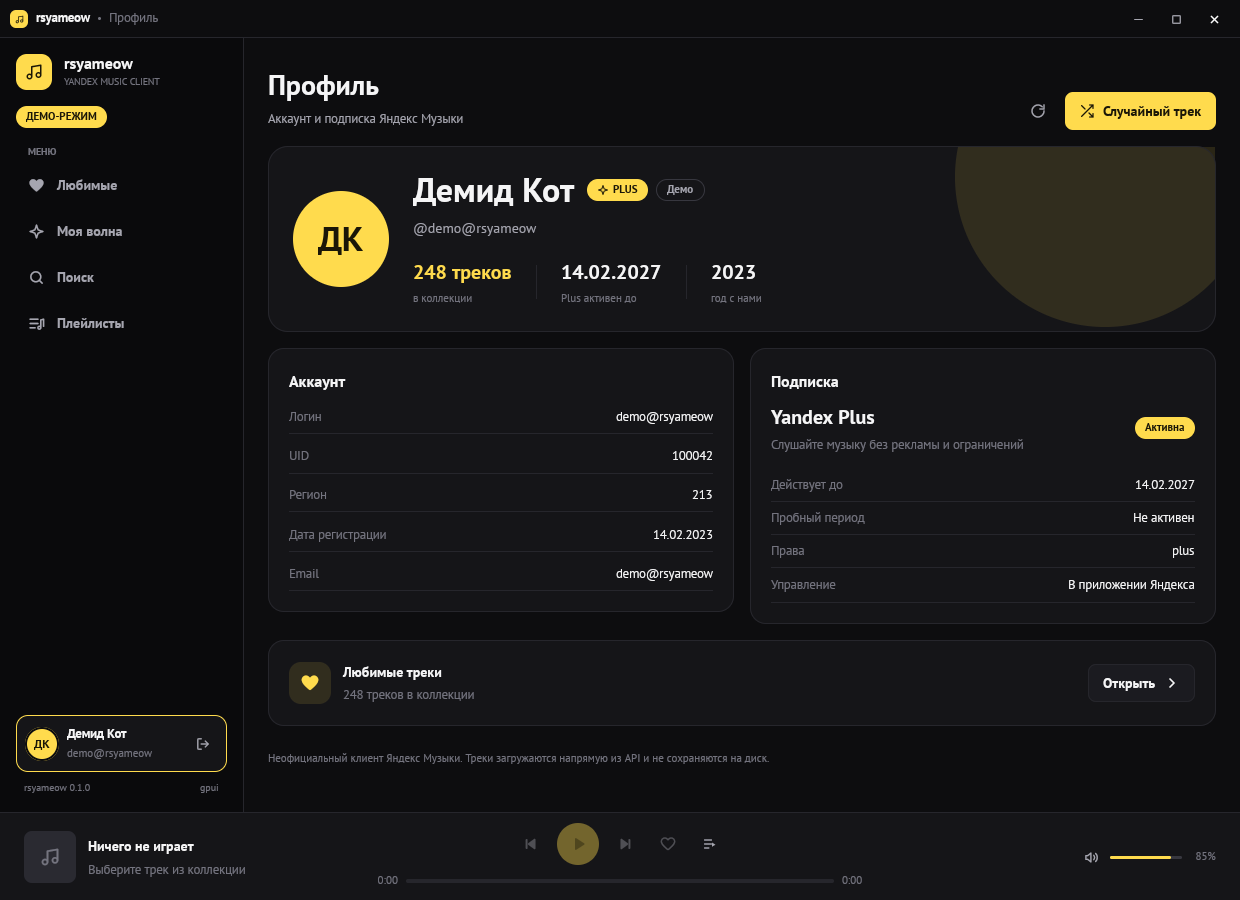
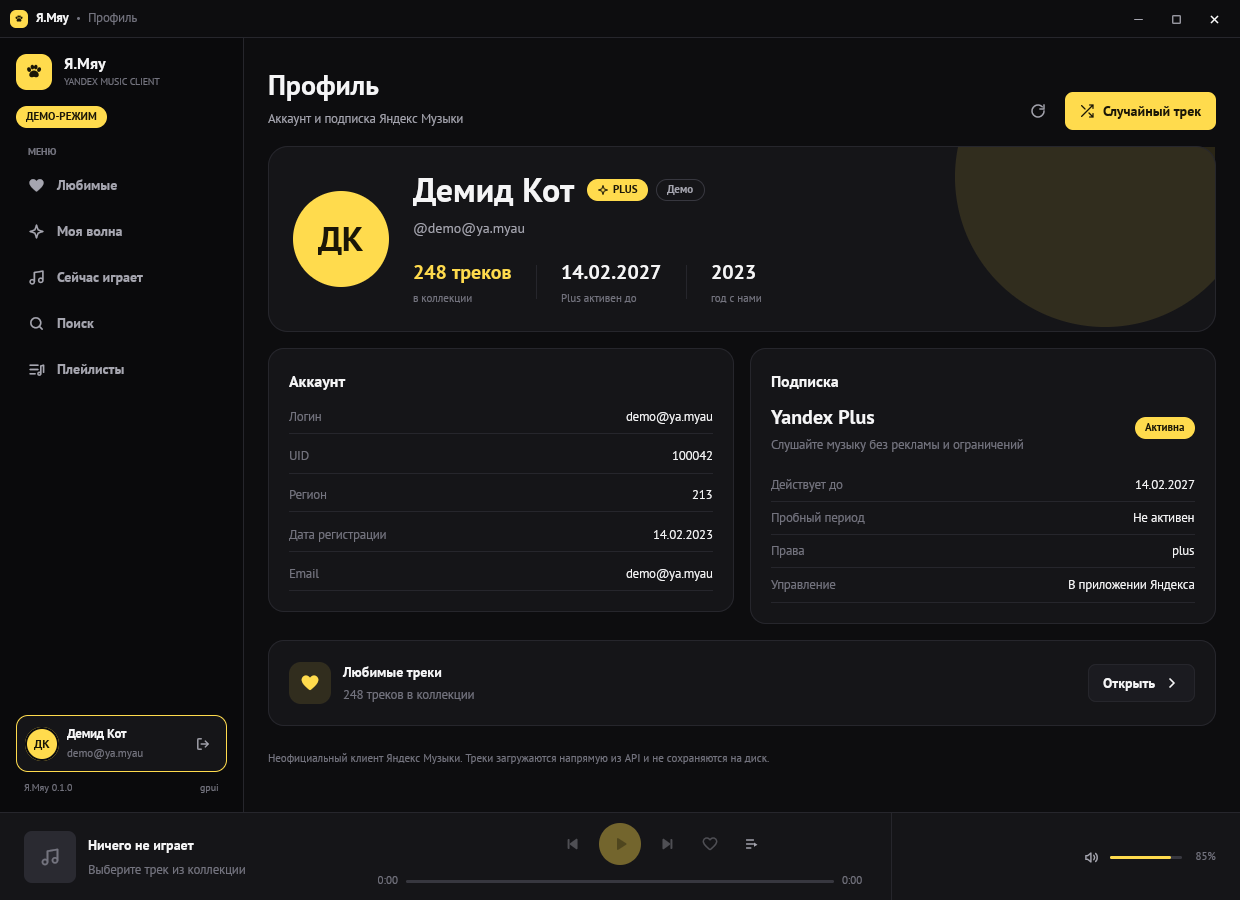
Rebrand the app as Я.Мяу with a cat paw

diff --git a/crates/app/src/demo.rs b/crates/app/src/demo.rs
@@ -15,7 +15,7 @@ pub fn status() -> Status {
         account: Some(Account {
             now: Some("2026-11-20T00:00:00".into()),
             uid: Some(100042),
-            login: Some("demo@rsyameow".into()),
+            login: Some("demo@ya.myau".into()),
             full_name: Some("Демид Кот".into()),
             first_name: Some("Демид".into()),
             display_name: Some("Демид Кот".into()),
@@ -40,7 +40,7 @@ pub fn status() -> Status {
             can_start_trial: Some(false),
             ..Default::default()
         }),
-        default_email: Some("demo@rsyameow".into()),
+        default_email: Some("demo@ya.myau".into()),
         station_exists: Some(true),
         pretrial_active: Some(false),
         ..Default::default()
@@ -163,7 +163,7 @@ fn make_playlist(
         og_image: None,
         owner: Some(User {
             uid: Some(100042),
-            login: Some("demo@rsyameow".into()),
+            login: Some("demo@ya.myau".into()),
             display_name: Some("Демид Кот".into()),
             full_name: Some("Демид Кот".into()),
         }),

diff --git a/crates/app/src/view/shell.rs b/crates/app/src/view/shell.rs
@@ -505,8 +505,8 @@ pub(crate) fn title_bar(screen: &Screen, window: &mut Window, theme: &Theme) -> 
                 .items_center()
                 .justify_center()
                 .child(
-                    Icon::new(icons::MUSIC)
-                        .size(9.0)
+                    Icon::new(icons::PAW)
+                        .size(10.0)
                         .color(theme.colors.accent_text),
                 ),
         )
@@ -522,7 +522,7 @@ pub(crate) fn title_bar(screen: &Screen, window: &mut Window, theme: &Theme) -> 
                         .text_size(px(text::SM))
                         .font_weight(gpui::FontWeight::SEMIBOLD)
                         .text_color(theme.colors.text)
-                        .child("rsyameow"),
+                        .child("Я.Мяу"),
                 )
                 .child(
                     div()

diff --git a/crates/app/src/view/widgets.rs b/crates/app/src/view/widgets.rs
@@ -306,8 +306,8 @@ pub(crate) fn brand(theme: &Theme, large: bool) -> Div {
                 .items_center()
                 .justify_center()
                 .child(
-                    Icon::new(icons::MUSIC)
-                        .size(mark_size * 0.5)
+                    Icon::new(icons::PAW)
+                        .size(mark_size * 0.58)
                         .color(theme.colors.accent_text),
                 ),
         )
@@ -321,7 +321,7 @@ pub(crate) fn brand(theme: &Theme, large: bool) -> Div {
                         .text_size(px(title_size))
                         .font_weight(gpui::FontWeight::BOLD)
                         .line_height(px(title_size + 2.0))
-                        .child("rsyameow"),
+                        .child("Я.Мяу"),
                 )
                 .child(
                     div()

diff --git a/crates/app/src/main.rs b/crates/app/src/main.rs
@@ -146,7 +146,7 @@ fn main() {
                 window_bounds: Some(WindowBounds::Windowed(bounds)),
                 window_min_size: Some(size(px(960.0), px(640.0))),
                 titlebar: Some(gpui::TitlebarOptions {
-                    title: Some(SharedString::from("rsyameow — Яндекс Музыка")),
+                    title: Some(SharedString::from("Я.Мяу — Яндекс Музыка")),
                     appears_transparent: true,
                     ..Default::default()
                 }),

diff --git a/crates/app/src/assets.rs b/crates/app/src/assets.rs
@@ -41,6 +41,7 @@ impl AssetSource for Assets {
             "icons/warning.svg" => asset!("icons/warning.svg"),
             "icons/check.svg" => asset!("icons/check.svg"),
             "icons/explicit.svg" => asset!("icons/explicit.svg"),
+            "icons/paw.svg" => asset!("icons/paw.svg"),
             "fonts/PT_Sans-Web-Regular.ttf" => asset!("fonts/PT_Sans-Web-Regular.ttf"),
             "fonts/PT_Sans-Web-Bold.ttf" => asset!("fonts/PT_Sans-Web-Bold.ttf"),
             _ => return Ok(None),

diff --git a/crates/ui/src/theme.rs b/crates/ui/src/theme.rs
@@ -189,4 +189,5 @@ pub mod icons {
     pub const WARNING: &str = "icons/warning.svg";
     pub const CHECK: &str = "icons/check.svg";
     pub const EXPLICIT: &str = "icons/explicit.svg";
+    pub const PAW: &str = "icons/paw.svg";
 }

diff --git a/README.md b/README.md
@@ -80,7 +80,8 @@
   очереди, плеере и на странице трека.
 - **Демо-режим.** Полноценный интерфейс с вымышленными треками, обложками и
   симуляцией воспроизведения — без сети и токена. Удобно для скриншотов и
-  разработки UI.
+  разработки UI. Отображаемое имя приложения — **Я.Мяу**, иконка — кошачья
+  лапка.
 - **Собственный заголовок окна.** Перетаскивание за шапку, двойной клик —
   максимизация, кнопки «свернуть / развернуть / закрыть», изменение размера
   перетаскиванием за края и углы. Работает и в Wayland-композиторах без
